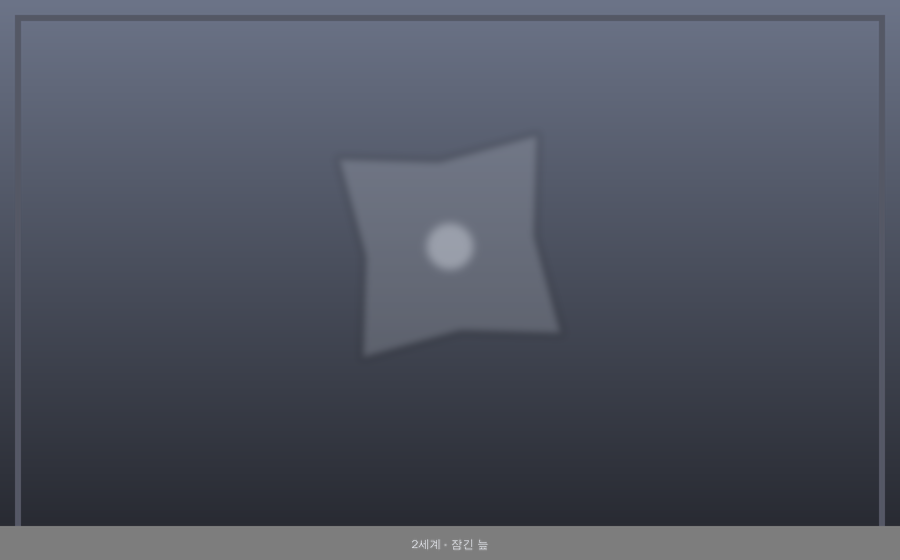
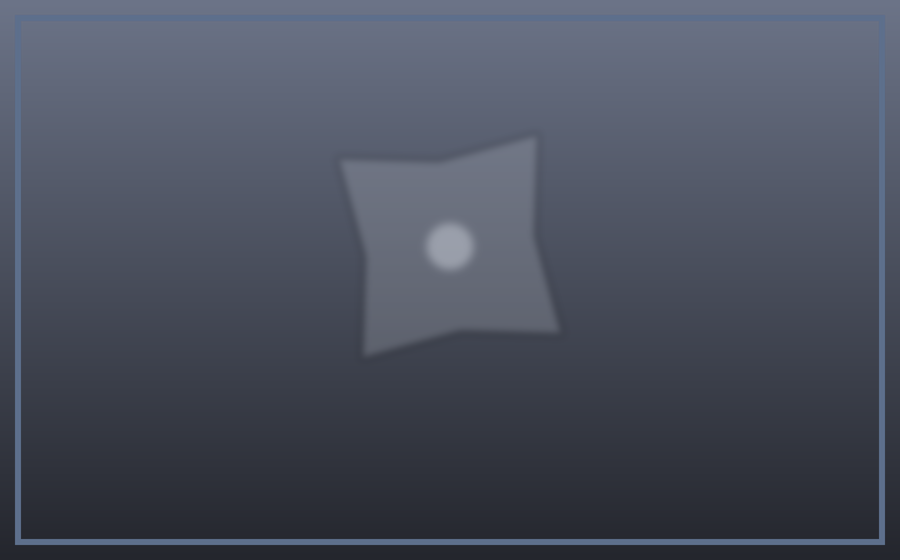
!종료 명령, 지도 갈림길 번호, 지도 하단 글자 겹침 수정
- !종료·!덱아웃 종료로 진행 중인 런을 끝낸다(포기와 같은 처리). 예전엔
  !종료를 치면 허브가 떴다. 런이 없으면 "진행 중인 런이 없습니다".
- 다음 칸이 둘 다 전투면 버튼이 똑같아 고를 수 없었다. 지도의 갈 수 있는
  칸에 왼쪽부터 번호 배지를 달고 버튼도 같은 번호로 맞췄다.
- 월드 배경 그림에 구워진 이름 띠가 보스 칸 이름과 겹쳤다. 월드 그림은
  이름 없이 다시 만들고 칸 이름에 바탕 판을 깔았다.

검증: 전체 pytest 953개 통과.

Claude-Session: https://claude.ai/code/session_0188YRz4PA9DAHMewi6hsJNs

Changed region(s): [[0.0, 0.0, 1.0, 1.0]]

diff --git a/tests/test_render_and_api.py b/tests/test_render_and_api.py
@@ -648,3 +648,69 @@ def test_mixed_text_measures_the_same_width_it_draws():
     drawn = image.getbbox()
     measured = draw.textbbox((10, 10), text, font=font)
     assert abs(drawn[0] - measured[0]) <= 2 and abs(drawn[2] - measured[2]) <= 2
+
+
+# =====================================================================
+# `!종료` — 진행 중인 런 끝내기 (오너 지시)
+# =====================================================================
+def test_the_quit_command_ends_the_active_run_from_the_thread(client_with_central):
+    from app.api import server
+
+    base, _ = _enter_first_battle(client_with_central, 55540)
+    reply = client_with_central.post('/event', json={
+        **base, 'type': 'message', 'command': '종료', 'args': [],
+        'raw_content': '!종료'}).json()
+    assert reply['action'] == 'reply'
+    assert '포기했습니다' in reply['content']
+    run = server.state['db'].one("SELECT state FROM runs WHERE user_id = 55540")
+    assert run['state'] == 'run_abandoned'
+
+
+def test_the_quit_command_without_a_run_says_so(client_with_central):
+    from app.api import server
+    from app.content.seed import create_account
+
+    create_account(server.state['db'], 55541, server.state['content_version_id'])
+    server.state['db'].execute("UPDATE accounts SET tutorial_completed_at = 'x' "
+                               "WHERE user_id = 55541")
+    reply = client_with_central.post('/event', json={
+        'type': 'message', 'user_id': 55541, 'guild_id': 1, 'channel_id': 5959,
+        'command': '종료', 'args': [], 'raw_content': '!종료'}).json()
+    assert reply['content'] == '진행 중인 런이 없습니다.'
+
+
+def test_deckout_quit_subcommand_is_the_same(client_with_central):
+    from app.api import server
+
+    base, _ = _enter_first_battle(client_with_central, 55542)
+    client_with_central.post('/event', json={
+        **base, 'type': 'message', 'command': '덱아웃', 'args': ['종료'],
+        'raw_content': '!덱아웃 종료'})
+    run = server.state['db'].one("SELECT state FROM runs WHERE user_id = 55542")
+    assert run['state'] == 'run_abandoned'
+
+
+# =====================================================================
+# 지도 — 같은 종류의 갈림길을 번호로 구분
+# =====================================================================
+def test_map_buttons_are_numbered_left_to_right(db, balance, version, user_id):
+    from app.api import controls
+    from app.content.seed import STARTER_CHARACTER_ID, TUTORIAL_WORLD_ID
+    from app.engine import lifecycle as lc
+    from app.engine import map_gen
+
+    run_id = lc.create_run(db, balance, lc.RunBuildRequest(
+        user_id=user_id, world_id=TUTORIAL_WORLD_ID,
+        party_character_ids=[STARTER_CHARACTER_ID], is_tutorial=True), version)
+    first = map_gen.available_next_nodes(db, run_id, None)[0]
+    db.execute("UPDATE runs SET current_node_index = ?, state = 'map_navigation' "
+               "WHERE run_id = ?", (first["node_index"], run_id))
+    options = sorted(map_gen.available_next_nodes(db, run_id, first["node_index"]),
+                     key=lambda node: node["node_index"])
+    buttons = controls.game_map(db, run_id)
+    assert [b["label"].split(" · ")[0] for b in buttons] == \
+        [str(n) for n in range(1, len(options) + 1)]
+    assert [b["custom_id"].rsplit(":", 1)[1] for b in buttons] == \
+        [str(node["node_index"]) for node in options]
+    assert len({b["label"] for b in buttons}) == len(buttons), \
+        "같은 종류의 갈림길이라도 버튼 라벨은 서로 달라야 합니다"

diff --git a/app/render/panels.py b/app/render/panels.py
@@ -907,6 +907,12 @@ def render_map(nodes: list[dict], edges: list[tuple[int, int]], *,
 
     # ---- 칸 ----
     small = canvas.font("small")
+    # 갈 수 있는 칸에 왼쪽부터 번호를 단다 — 버튼(`controls.game_map`)도 같은
+    # 번호를 쓴다. 두 갈래가 모두 "전투"면 버튼이 똑같아 어느 쪽인지 고를 수
+    # 없었다(운영 신고). 다음 칸은 모두 같은 깊이이고, 한 깊이 안에서는
+    # node_index 순으로 왼쪽부터 놓인다.
+    choice_numbers = {index: number for number, index in
+                      enumerate(sorted(i for i in available if i in positions), 1)}
     for node in nodes:
         index = node["node_index"]
         if index not in positions:
@@ -960,10 +966,28 @@ def render_map(nodes: list[dict], edges: list[tuple[int, int]], *,
                          fill=theme.color("color_background")
                          if state in ("current", "open") else theme.color("color_muted"))
         label = kit.truncate(canvas.draw, node_type, small, 84)
-        canvas.draw.text((x - canvas.draw.textlength(label, font=small) / 2, y + r + 5),
+        label_x = x - canvas.draw.textlength(label, font=small) / 2
+        # 칸 이름 뒤에 바탕 판을 깐다 — 월드 배경 그림의 글씨(자리표시 그림의
+        # "튜토리얼" 캡션 등)와 겹치면 "튜보스리얼"처럼 읽혔다.
+        box = canvas.draw.textbbox((label_x, y + r + 5), label, font=small)
+        canvas.draw.rounded_rectangle((box[0] - 4, box[1] - 2, box[2] + 4, box[3] + 3),
+                                      radius=4, fill=theme.color("color_background"))
+        canvas.draw.text((label_x, y + r + 5),
                          label, font=small,
                          fill=theme.color("color_text")
                          if state in ("current", "open") else theme.color("color_muted"))
+
+        number = choice_numbers.get(index)
+        if number is not None:
+            badge = 11
+            bx, by = x + int(r * .78), y - int(r * .78)
+            canvas.draw.ellipse((bx - badge, by - badge, bx + badge, by + badge),
+                                fill=theme.color("color_selectable"),
+                                outline=theme.color("color_background"), width=2)
+            digit = str(number)
+            width = canvas.draw.textlength(digit, font=small)
+            canvas.draw.text((bx - width / 2, by - 8), digit, font=small,
+                             fill=theme.color("color_background"))
 
         if state == "past":
             canvas.draw.ellipse((x + r - 11, y - r - 1, x + r + 1, y - r + 11),

diff --git a/app/api/handlers.py b/app/api/handlers.py
@@ -54,6 +54,9 @@ CMD_SHOP = "상점"
 CMD_ACHIEVEMENTS = "업적"
 CMD_PASSIVES = "패시브"
 CMD_HELP = "도움말"
+#: 오너 지시 — `!종료`(와 `!덱아웃 종료`)로 진행 중인 런을 끝낸다. `포기`와
+#: 같은 처리다. Central은 `!` 뒤 첫 단어를 `command`로 보낸다.
+CMD_QUIT = "종료"
 
 
 @dataclass
@@ -194,6 +197,8 @@ def handle_message(ctx: HandlerContext, event: ev.MessageEvent) -> dict:
         return _ephemeral("콘텐츠가 아직 준비되지 않았습니다.")
 
     subcommand = (event.args[0] if event.args else CMD_HUB)
+    if event.command == CMD_QUIT or subcommand == CMD_QUIT:
+        subcommand = CMD_ABANDON
 
     # 계정이 없으면 어떤 명령을 쳤든 가입부터 시킨다 — §4.6.5는 첫 명령에서
     # 계정을 조용히 만들었지만, 그러면 "가입"이라는 순간이 플레이어에게
@@ -687,7 +692,8 @@ _HELP_TEXT = (
     "연구   — 연구 트리\n"
     "상점   — 허브 상점\n"
     "업적   — 업적 목록\n"
-    "포기   — 진행 중인 런 포기 (런 진행 중에만 사용 가능)"
+    "포기   — 진행 중인 런 포기 (런 진행 중에만 사용 가능)\n\n"
+    "`!종료` — 진행 중인 런을 바로 끝냅니다 (포기와 같음, 스레드에서도 가능)"
 )
 
 
@@ -973,7 +979,7 @@ def abandon_run(ctx: HandlerContext, user_id: int) -> dict:
 
     run = lc.active_run_for(ctx.db, user_id)
     if run is None:
-        return _ephemeral(errors.ILLEGAL_STATE)
+        return _ephemeral("진행 중인 런이 없습니다.")
 
     sl.enter_settlement(ctx.db, run["run_id"], target_state=sl.RUN_ABANDONED,
                         end_reason="포기 명령")

diff --git a/app/api/controls.py b/app/api/controls.py
@@ -81,12 +81,15 @@ def game_map(db: Database, run_id: int) -> list[dict]:
     if not options:
         return []
     generation, revision = _surface(db, run_id)
+    # 지도 그림의 번호 배지와 같은 번호 — 왼쪽(작은 node_index)부터 1.
+    # 번호가 없으면 두 갈래가 모두 "전투"일 때 버튼이 똑같아 고를 수 없었다.
+    ordered = sorted(options, key=lambda node: node["node_index"])[:MAX_BUTTONS]
     return [{
         "type": "button",
         "custom_id": cid.build(cid.ACTION_NODE_CHOOSE, run_id, generation,
                                revision, str(node["node_index"])),
-        "label": f"{node['node_type']} (깊이 {node['depth']})"[:80],
-    } for node in options[:MAX_BUTTONS]]
+        "label": f"{number} · {node['node_type']} (깊이 {node['depth']})"[:80],
+    } for number, node in enumerate(ordered, 1)]
 
 
 # =====================================================================

diff --git a/app/cli/make_art.py b/app/cli/make_art.py
@@ -41,7 +41,9 @@ SOURCES = (
 #: 이 종류는 화면 쪽(카드·아군·적 패널·배너)이 이름을 그림 위에 직접
 #: 얹으므로, 그림에마저 이름 띠를 구우면 글자가 겹친다. 나머지 종류는
 #: 이름을 따로 그리지 않는 화면에서도 쓰이므로 그림에 이름을 남겨 둔다.
-_NO_BAKED_LABEL = {"card", "character", "enemy", "banner"}
+#: 월드 그림은 지도 바탕으로만 깔리는데, 늘어난 이름 띠가 맨 아래 보스 칸
+#: 이름과 겹쳐 "튜보스리얼"처럼 읽혔다.
+_NO_BAKED_LABEL = {"card", "character", "enemy", "banner", "world"}
 
 
 def rows_for(db: Database, version: int, source) -> list[dict]:

diff --git a/CHANGELOG.md b/CHANGELOG.md
@@ -13,6 +13,29 @@
 
 ## 2026-09-29
 
+### 12:55 KST — `!종료` 명령, 지도 갈림길 번호, 지도 하단 글자 겹침
+
+- **`!종료`로 진행 중인 런 끝내기 (오너 지시).** `!종료`와 `!덱아웃 종료` 모두
+  `!덱아웃 포기`와 같은 처리(패배와 같은 정산, 스레드 화면의 버튼 걷기)다.
+  부모 채널과 본인 스레드 어디서든 된다. 예전엔 `/event`가 `!` 뒤 명령어를
+  보지 않아 `!종료`를 치면 허브가 떴다. 진행 중인 런이 없으면 "지금은 할 수
+  없는 동작" 대신 "진행 중인 런이 없습니다"라고 알린다. 도움말에도 추가했다.
+  ※ Central이 덱아웃 채널의 `!종료`를 Deckout으로 보내 줘야 동작한다.
+- **지도에서 같은 종류의 갈림길을 고를 수 없음 (오너 신고).** 다음 칸이 둘 다
+  "전투"면 버튼이 똑같이 `전투 (깊이 2)` 두 개라 어느 쪽인지 알 수 없었다.
+  지도의 갈 수 있는 칸에 왼쪽부터 번호 배지(1, 2, 3)를 달고 버튼도
+  `1 · 전투 (깊이 2)`처럼 같은 번호·같은 순서로 맞췄다.
+- **지도 맨 아래 보스 이름이 "튜보스리얼"처럼 겹쳐 보임.** 월드 배경 그림(자리
+  표시 그림)의 아래쪽에 월드 이름 띠("튜토리얼")가 구워져 있었고, 지도 크기로
+  늘어나 보스 칸 이름과 겹쳤다. 월드 그림은 지도 바탕으로만 쓰이므로 생성기의
+  "이름을 굽지 않는 종류"에 넣고 5장을 다시 만들었다. 칸 이름 뒤에 바탕 판도
+  깔아 배경에 무엇이 있어도 읽히게 했다.
+
+검증: 전체 pytest 953개 통과(385초). 새 테스트: 스레드의 `!종료`로 런 종료(공개
+응답), 런 없을 때 안내, `!덱아웃 종료` 동일 동작, 지도 버튼 번호가 왼쪽부터
+1…n이고 라벨이 서로 다름. 두 갈래가 모두 전투인 지도와 보스 칸 하단을 그려
+번호 배지와 겹침 해소를 눈으로 확인.
+
 ### 12:44 KST — 스레드 생성 타임아웃 복구, 그림 속 기호 깨짐 수정
 
 오너가 보낸 운영 화면("스레드 연결을 확인하지 못했습니다")과 Termux 로그,
